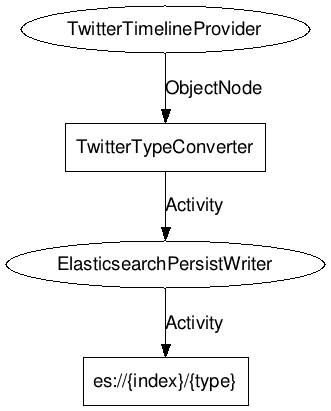
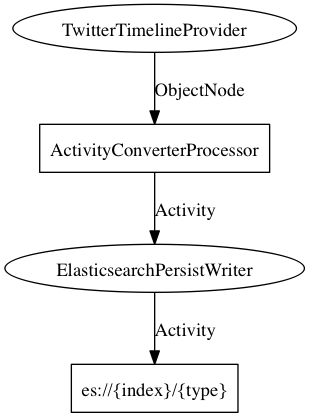
clean up documentation switch to ActivityConverterProcessor confirmed working

Changed region(s): [[0.0291, 0.0, 0.9903, 0.8759], [0.2039, 0.8467, 0.7864, 0.9927], [0.0, 0.6131, 0.0874, 0.6715]]

diff --git a/local/twitter-history-elasticsearch/src/main/java/org/apache/streams/example/twitter/TwitterHistoryElasticsearch.java b/local/twitter-history-elasticsearch/src/main/java/org/apache/streams/example/twitter/TwitterHistoryElasticsearch.java
@@ -23,6 +23,7 @@ import com.fasterxml.jackson.databind.node.ObjectNode;
 import com.typesafe.config.Config;
 import org.apache.streams.config.ComponentConfigurator;
 import org.apache.streams.config.StreamsConfigurator;
+import org.apache.streams.converter.ActivityConverterProcessor;
 import org.apache.streams.core.StreamBuilder;
 import org.apache.streams.elasticsearch.ElasticsearchConfigurator;
 import org.apache.streams.elasticsearch.ElasticsearchPersistWriter;
@@ -76,7 +77,7 @@ public class TwitterHistoryElasticsearch implements Runnable {
     public void run() {
 
         TwitterTimelineProvider provider = new TwitterTimelineProvider(config.getTwitter(), ObjectNode.class);
-        TwitterTypeConverter converter = new TwitterTypeConverter(ObjectNode.class, Activity.class);
+        ActivityConverterProcessor converter = new ActivityConverterProcessor();
         ElasticsearchPersistWriter writer = new ElasticsearchPersistWriter(config.getElasticsearch());
 
         StreamBuilder builder = new LocalStreamBuilder(500);

diff --git a/local/twitter-history-elasticsearch/README.md b/local/twitter-history-elasticsearch/README.md
@@ -53,27 +53,26 @@ Example Configuration:
         type = activity
     }
 
-In the Twitter section you should place all of your relevant authentication keys and whichever Twitter IDs you're looking to follow
+In the Twitter section you should place all of your relevant authentication keys and whichever Twitter IDs you want to pull history for.
+
 Twitter IDs can be converted from screennames at http://www.gettwitterid.com
 
-Running:
+Build:
+---------
+
+`mvn clean package verify`
+
+Run:
 --------
 
-You will need to run `./install_templates.sh` in the resources folder in order to apply the templates to your ES cluster
+    java -cp target/twitter-history-elasticsearch-0.2-incubating-SNAPSHOT.jar -Dconfig.file=application.conf org.apache.streams.example.twitter.TwitterHistoryElasticsearch
 
-    java -cp target/twitter-history-elasticsearch-0.1-SNAPSHOT.jar -Dconfig.file=application.conf org.apache.streams.twitter.example.TwitterHistoryElasticsearchActivity
+Deploy:
+--------
+`mvn -Pdocker clean package docker:build`
 
-Note that you must modify src/main/resources/application.conf, and supply an absolute path to config.file
+`docker tag twitter-history-elasticsearch:0.2-incubating-SNAPSHOT <dockerregistry>:elasticsearch-reindex:0.2-incubating-SNAPSHOT`
 
-Verification:
--------------
-Open up http://localhost:9200/_plugin/head/ and confirm that the index you specified now contains has data
+`docker push <dockerregistry>:twitter-history-elasticsearch:0.2-incubating-SNAPSHOT`
 
-Download https://github.com/w2ogroup/streams-examples/blob/master/twitter-history-elasticsearch/src/main/resources/reports/ActivityReport.json
-
-Open up http://localhost:9200/_plugin/marvel and from the folder icon in the top right hand corner click
-    Load -> Advanced -> Choose File and select the report you downloaded
-
-The gear on the top-right allows you to change the report index
-
-You should now see dashboards displaying metrics about your twitter activity
+`docker run <dockerregistry>:twitter-history-elasticsearch:0.2-incubating-SNAPSHOT.jar java -cp twitter-history-elasticsearch-0.2-incubating-SNAPSHOT.jar -Dconfig.file=http://<location_of_config_file>.json org.apache.streams.example.twitter.TwitterHistoryElasticsearch`
